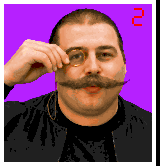
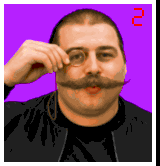
Use bilinear downscaling for Otto's portrait
- Regenerate the 4x working tile and game asset with bilinear filtering
- Preserve the full-resolution source, cord and finger corrections
- Retain the original game palette, border and opponent number
- Update processing records, asset hashes and documentation

diff --git a/docs/opponents/README.md b/docs/opponents/README.md
@@ -69,8 +69,8 @@ No fallback CLI or API key was used.
 Preparation follows the requested larger-to-smaller workflow:
 
 1. Resize the reconstructed photograph into a 320 x 332 working tile, four times
-   the original width and height, with a 296 x 316 photo interior. Use nearest
-   neighbor for Otto and the established bilinear filter for the other portraits.
+   the original width and height, with a 296 x 316 photo interior. Use bilinear
+   filtering for all six portraits, including Otto.
 2. Apply a gentle 3 x 3 median to the photo at that working size to remove isolated
    specks while retaining facial features and intentional clothing patterns.
 3. Fill the connected flat backdrop with its exact original palette color.
@@ -78,7 +78,7 @@ Preparation follows the requested larger-to-smaller workflow:
    filled. Masks follow the new photograph's silhouette.
 4. Reduce the photo and its backdrop mask to half size with the same selected
    filter, then map it to the exact game palette without dithering, added grain
-   or sharpening. Otto's final reduction uses nearest neighbor.
+   or sharpening. Otto's final reduction uses bilinear filtering.
 5. Restore the original border and complete number rectangle as exact 2x copies.
 
 The [final asset manifest](../../assets/opponents/game/manifest.json) records

diff --git a/docs/opponents/game-sources/README.md b/docs/opponents/game-sources/README.md
@@ -16,9 +16,10 @@ a straight hanging section, a rounded bend below the chin, and a narrow return
 on its viewer-left side rising toward the jacket edge beside the jaw.
 The localized cord patch preserves every master pixel outside its mask. His dark lightweight
 jacket is collarless and unzipped over a black T-shirt; his lips have a natural
-partial kiss pucker. Otto uses nearest-neighbor resizing, as recorded in
-[`processing.json`](processing.json), while the other portraits retain bilinear
-resizing. Bernie's selected source has the corrected green shirt collars. Cherry's source
+partial kiss pucker. Otto uses bilinear resizing, as recorded in
+[`processing.json`](processing.json), matching the other portraits. The selected
+full-resolution photograph and its localized corrections remain unchanged.
+Bernie's selected source has the corrected green shirt collars. Cherry's source
 also restores the far-side triangular earring visible in the original portrait,
 with a longer pointed tip. The committed photograph supplies every pixel outside
 the localized earring patch, preserving its original detail and sharpness.
